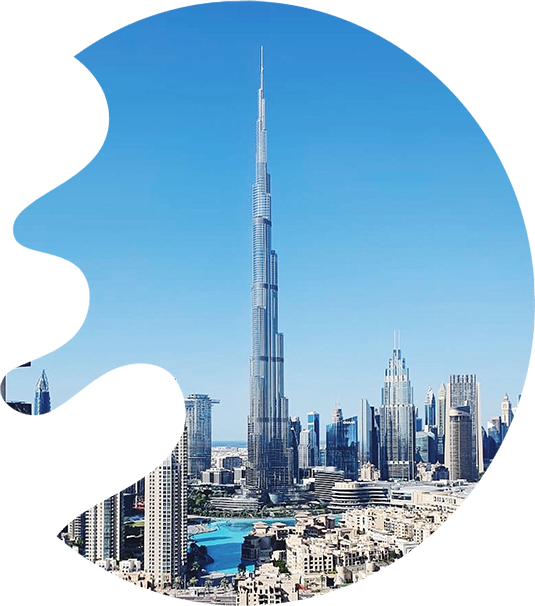
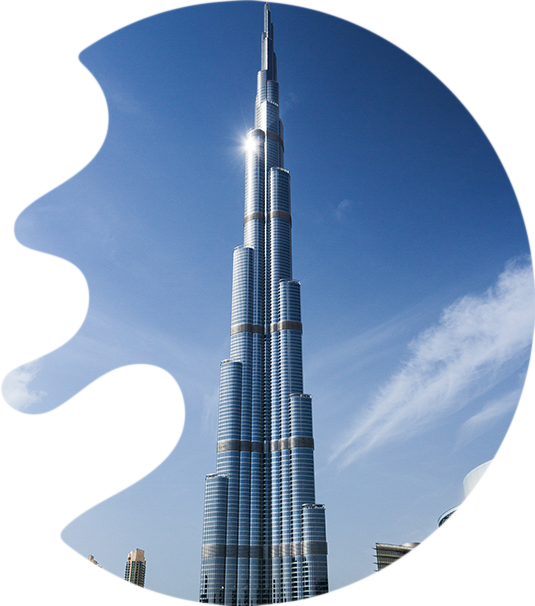
hero images change

diff --git a/components/Hero/Hero.js b/components/Hero/Hero.js
@@ -11,7 +11,7 @@ const Hero = () => {
       id: "0",
       line1: "Setup Your",
       bold: "Business",
-      line3: "in",
+      line3: "in ",
       line4: "Dubai Today",
       para:
         "With more than 10 years of experience, we have the expertise and know how to help your business get started in Dubai or UAE immediately.",
@@ -24,7 +24,7 @@ const Hero = () => {
       id: "1",
       line1: "Hassle Free",
       bold: "Business Setup",
-      line3: "Services",
+      line3: "Services ",
       line4: "in UAE",
       para:
         "Stop wasting time trying to figure out the necessary license requirements to start your business. Contact us and we will do that for you.",
@@ -37,7 +37,7 @@ const Hero = () => {
       id: "2",
       line1: "Start a Company in",
       bold: "Mainland or Free Zone",
-      line3: "of",
+      line3: "of ",
       line4: "Your Choice",
       para:
         "Worried about ownership, start a business in any Free Zone in UAE and own 100% of your business.",
@@ -50,7 +50,7 @@ const Hero = () => {
       id: "3",
       line1: "Professional",
       bold: "PRO Services",
-      line3: "in",
+      line3: "in ",
       line4: "Dubai",
       para:
         "We provide pro services to help your business get employee visas and other regulatory approvals, so you can focus on your core business rather than government formalities.",

diff --git a/pages/index.js b/pages/index.js
@@ -34,8 +34,7 @@ export async function getStaticProps() {
 
 export default function Home({ features }) {
   const metaData = {
-    title:
-      "Business Setup and Company Formation Services in Dubai / UAE",
+    title: "Business Setup and Company Formation Services in Dubai / UAE",
     description:
       "Setup your business in Dubai easily with the help of Just Business. Depending on you business needs, Just Business guides you on choosing the correct license and provide transparent pricing.",
     keywords:
@@ -54,7 +53,9 @@ export default function Home({ features }) {
       <Hero />
 
       <Features features={features} />
-      <AboutHome />
+      <AboutHome
+        img={"/assets/img/section-bg/about jb business setup in dubai.webp"}
+      />
       <CTASection />
       <Steps />
 

diff --git a/components/Home/AboutHome.js b/components/Home/AboutHome.js
@@ -2,7 +2,7 @@ import { useState } from "react";
 import Link from "next/link";
 
 // TODO: change the see more button link to the page about us.
-const AboutHome = () => {
+const AboutHome = ({ img }) => {
   const [isOpen, setOpen] = useState(false);
 
   return (
@@ -132,7 +132,7 @@ const AboutHome = () => {
             </div>
             <div className="col-lg-6 video-area mt-50 mt-lg-0">
               <img
-                src="/assets/img/section-bg/about jb business setup in dubai1.webp"
+                src={img}
                 data-rjs="2"
                 alt="About just business mission and vision"
                 height="805"

diff --git a/pages/dubai-business-setup-about-jbz.js b/pages/dubai-business-setup-about-jbz.js
@@ -28,7 +28,9 @@ const AboutJbz = () => {
       />
       <PageHeader header="About Just Business" />
       <WhoAreWe />
-      <AboutHome />
+      <AboutHome
+        img={"/assets/img/section-bg/about jb business setup in dubai1.webp"}
+      />
       {/* <Mission /> */}
       <WhyChooseUs />
 

diff --git a/components/Hero/HeroSlide.js b/components/Hero/HeroSlide.js
@@ -19,7 +19,7 @@ const HeroSlide = ({
             <div className="banner-content">
               <h1>
                 {line1}
-                <span> {bold}</span> {line3}&nbsp;
+                <span> {bold}</span> {line3}
                 {line4}
               </h1>
               <p>{para}</p>
